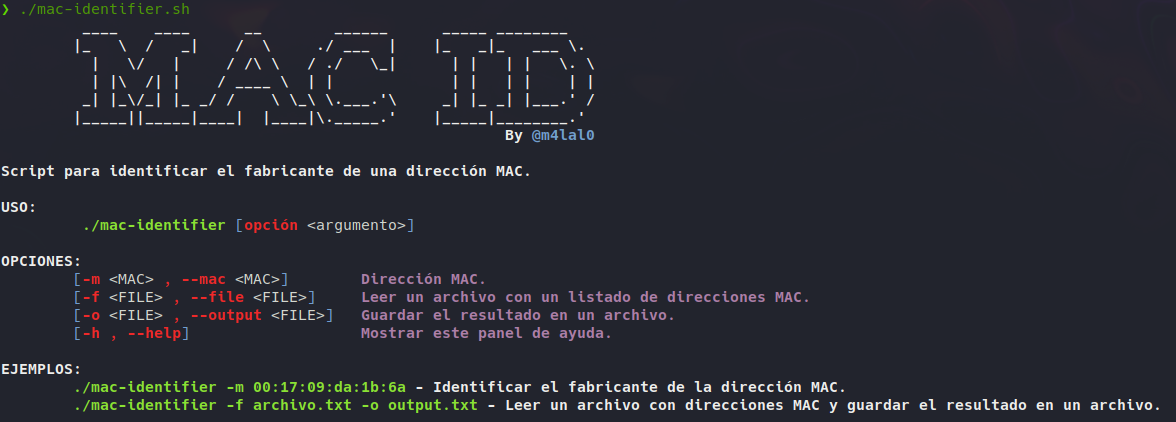
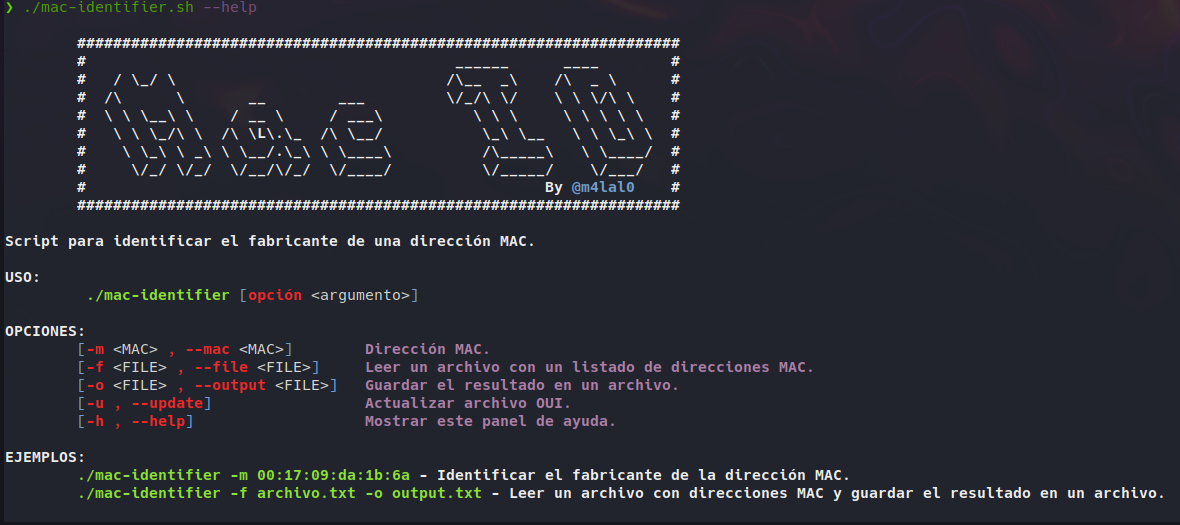
Update README

diff --git a/README.md b/README.md
@@ -19,7 +19,7 @@ Tras ejecutar la herramienta, nos mostrará el panel de ayuda.
 	style="float: left; margin-right: 10px;" />
 </p>
 
-La herramienta cuenta con 3 parametros:
+La herramienta cuenta con 3 parámetros:
 
 * -m ó --mac : Lee una dirección MAC.
     + Usamos el parametro **-m** ó **--mac** seguido como argumento la dirección MAC.
@@ -29,6 +29,9 @@ La herramienta cuenta con 3 parametros:
 
 * -o ó --output : Guarda el resultado en un archivo.
     + Usamos el parametro **-o** ó **--output** seguido como argumento el nombre que queremos llamar a nuestro archivo.
+
+* -u ó --update : Actualiza el archivo OUI.
+    + Usamos el parametro **-u** ó **--update** para actualizar la herramienta.
 
 
 > Al ejecutar por primera vez el script, descargará un archivo (OUI) que contiene listado de fabricantes para el correcto uso de la herramienta.
